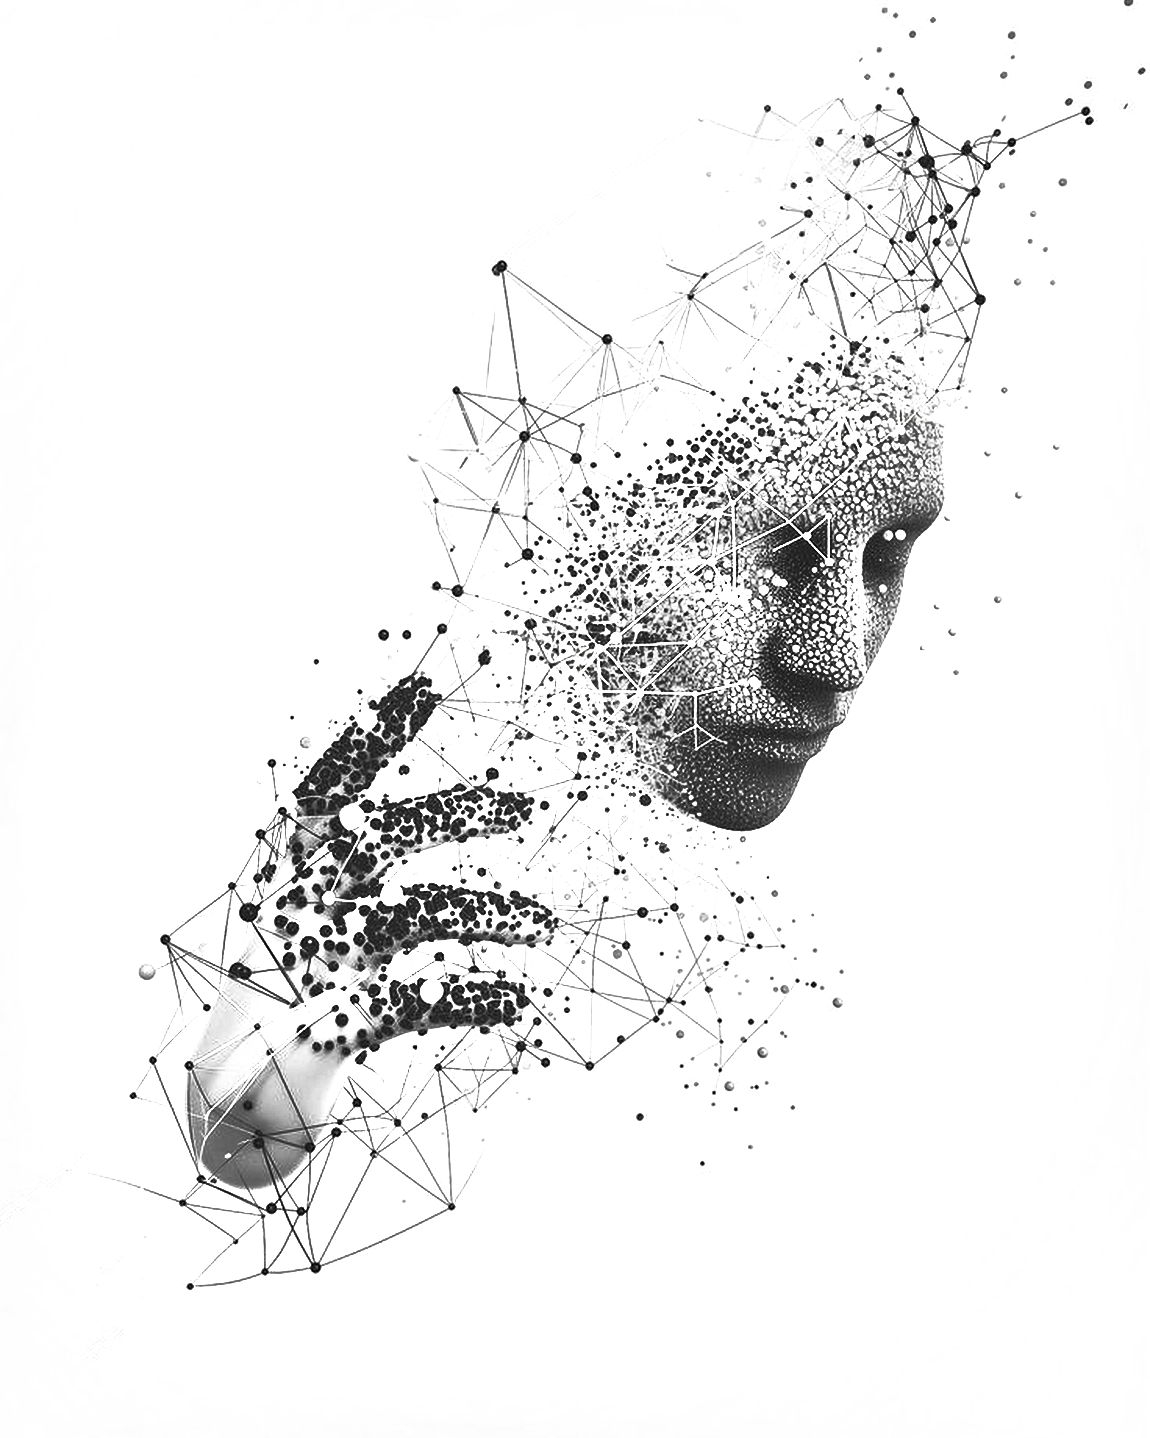
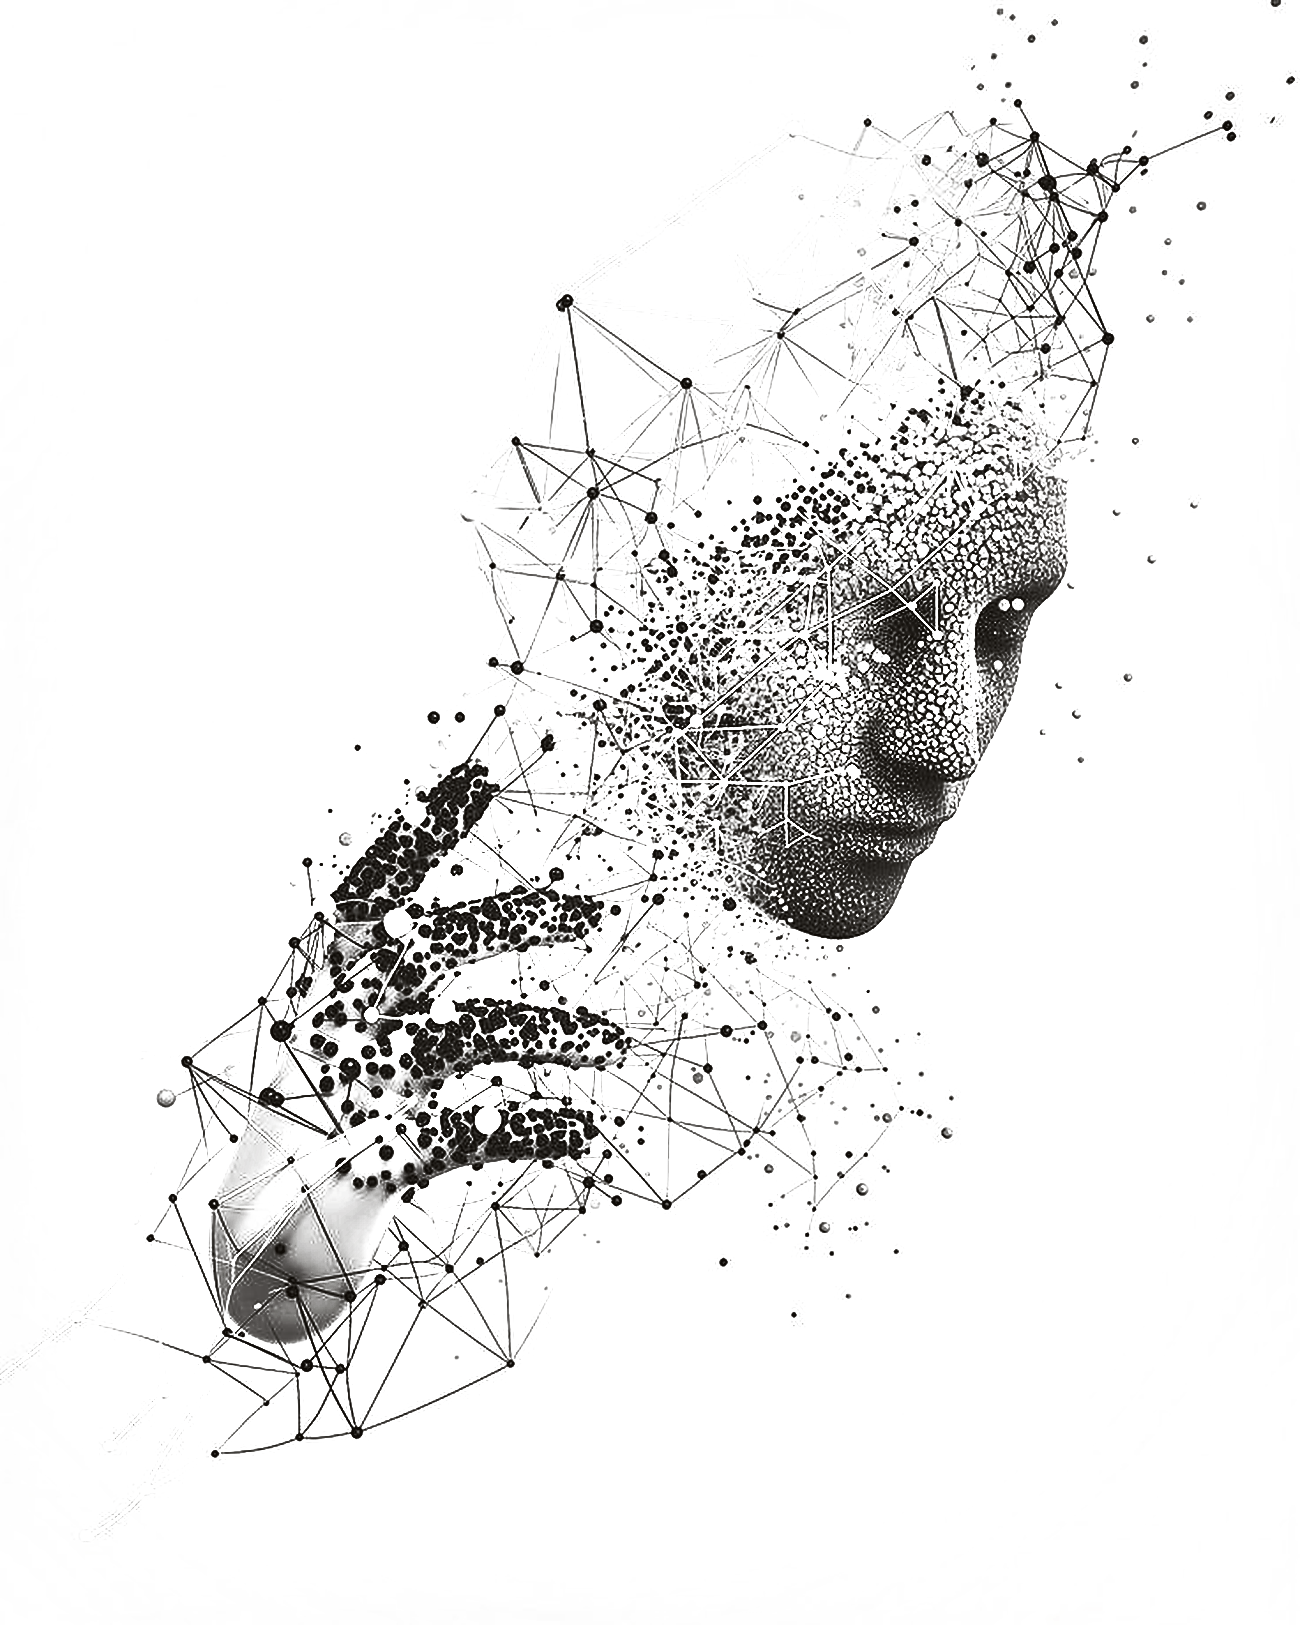
preview: photo + ai-node hero, levitation, premium card meta

diff --git a/preview.html b/preview.html
@@ -159,6 +159,15 @@ nav.scrolled{padding:13px 40px;background:rgba(244,241,234,0.82);backdrop-filter
 .hero-grid{position:relative;z-index:2;display:grid;grid-template-columns:1.05fr 0.95fr;gap:64px;align-items:center}
 .hero h1{font-family:var(--font-display);margin:18px 0 0;line-height:1.04}
 .hero h1 .h1-role{display:block;font-weight:600;font-size:clamp(15px,1.7vw,19px);color:var(--accent-strong);letter-spacing:0.01em;margin-bottom:12px;text-transform:none}
+/* премиум-аватар слева сверху (фото в кадре) */
+.hero-avatar{width:80px;height:80px;border-radius:50%;overflow:hidden;margin-bottom:24px;
+  border:1px solid var(--border-subtle);background:var(--surface);
+  box-shadow:0 1px 2px rgba(26,23,20,.05),0 14px 30px rgba(26,23,20,.08);
+  position:relative}
+.hero-avatar::after{content:"";position:absolute;right:-2px;bottom:-2px;width:18px;height:18px;border-radius:50%;
+  background:var(--accent);border:3px solid var(--bg-base);box-shadow:0 0 0 1px var(--accent-line)}
+.hero-avatar img{display:block;width:100%;height:100%;object-fit:cover}
+.hero .lead b{color:var(--accent-strong);font-weight:700}
 .hero h1 .h1-main{display:block;font-weight:800;font-size:clamp(40px,5.4vw,68px);letter-spacing:var(--tracking-display);color:var(--text-primary)}
 .hero .lead{max-width:560px;font-size:16.5px;margin-top:24px;color:var(--text-secondary)}
 .hero-cta{display:flex;align-items:center;gap:22px;margin-top:36px;flex-wrap:wrap}
@@ -173,11 +182,13 @@ nav.scrolled{padding:13px 40px;background:rgba(244,241,234,0.82);backdrop-filter
 /* portrait — premium floating panel */
 .photo-stage{perspective:1100px;display:flex;justify-content:center}
 /* AI-узлы — реалистичный элемент героя, чисто слит с off-white; край «появляется» */
-.ai-hero{position:relative;width:100%;max-width:480px;transform-style:preserve-3d;transition:transform .3s ease;will-change:transform}
+.ai-hero{position:relative;width:100%;max-width:520px;will-change:transform;
+  animation:aiFloat 6.5s ease-in-out infinite}
+@keyframes aiFloat{0%,100%{transform:translateY(-10px)}50%{transform:translateY(10px)}}
 .ai-hero img{display:block;width:100%;height:auto;
   animation:aiReveal 1.35s .4s cubic-bezier(.2,.7,.2,1) both}
 @keyframes aiReveal{0%{clip-path:inset(0 0 100% 0);opacity:0}100%{clip-path:inset(0 0 0 0);opacity:1}}
-@media (prefers-reduced-motion:reduce){.ai-hero img{animation:none}}
+@media (prefers-reduced-motion:reduce){.ai-hero,.ai-hero img{animation:none}}
 .photo-card{position:relative;width:100%;max-width:400px;border-radius:var(--radius-mock);
   transform-style:preserve-3d;transition:transform .25s ease;will-change:transform}
 .photo-card .frame{position:relative;z-index:1;border-radius:var(--radius-mock);overflow:hidden;
@@ -239,9 +250,11 @@ nav.scrolled{padding:13px 40px;background:rgba(244,241,234,0.82);backdrop-filter
 
 /* ============ FEATURE GRID ============ */
 .grid-3{display:grid;grid-template-columns:repeat(3,1fr);gap:20px;max-width:var(--maxw-mid);margin:0 auto}
-.card{padding:32px}
+.card{padding:30px 28px 26px;display:flex;flex-direction:column;min-height:230px}
 .card h3{font-family:var(--font-display);font-size:18px;font-weight:700;letter-spacing:-0.01em;margin-bottom:10px;color:var(--text-primary)}
-.card p{font-size:14px;color:var(--text-muted);line-height:1.6}
+.card p{font-size:14px;color:var(--text-muted);line-height:1.6;flex:1}
+.card .card-meta{display:flex;align-items:center;justify-content:space-between;gap:12px;margin-top:18px;padding-top:14px;border-top:1px solid var(--border-subtle);font-size:11.5px;font-weight:800;letter-spacing:0.1em;text-transform:uppercase;color:var(--text-muted)}
+.card .card-meta .mk{color:var(--accent-strong)}
 .icon-tile{width:52px;height:52px;border-radius:15px;display:grid;place-items:center;margin-bottom:22px;
   background:linear-gradient(150deg,#fff,var(--surface-2));border:1px solid var(--border-subtle);
   box-shadow:var(--shadow-sm),inset 0 1px #fff;transition:transform .28s,background .28s,border-color .28s,box-shadow .28s}
@@ -403,9 +416,10 @@ html.gsap #strengths .card{flex:0 0 clamp(300px,26vw,360px)}
   <div class="wrap">
     <div class="hero-grid">
       <div class="hero-text">
+        <div class="hero-avatar"><img src="photo.png" alt="Максим Лисевский" /></div>
         <span class="eyebrow">Онлайн-образование · Маркетплейсы WB / OZON</span>
         <h1><span class="h1-role">Руководитель отдела продаж</span><span class="h1-main">Senior Manager</span></h1>
-        <p class="lead">Sales и операционный руководитель в онлайн-образовании и на маркетплейсах WB и OZON. Когда РОП уходит — беру отдел на себя: план, выручка и команда остаются на месте. Параллельно строю собственную AI-инфраструктуру и завожу её прямо в продажи.</p>
+        <p class="lead">Когда РОП уходит — <b>беру отдел на себя</b>. Параллельно строю собственную AI-инфраструктуру и завожу её прямо в продажи.</p>
         <div class="hero-cta">
           <a class="btn btn-primary magnetic" href="mailto:[email redacted]">
             <svg viewBox="0 0 24 24" fill="none" stroke="currentColor" stroke-width="2.2" stroke-linecap="round" stroke-linejoin="round"><rect x="2" y="4" width="20" height="16" rx="2"/><path d="m22 7-8.97 5.7a1.94 1.94 0 0 1-2.06 0L2 7"/></svg>
@@ -501,31 +515,37 @@ html.gsap #strengths .card{flex:0 0 clamp(300px,26vw,360px)}
         <div class="icon-tile"><svg viewBox="0 0 24 24"><circle cx="12" cy="12" r="10"/><circle cx="12" cy="12" r="6"/><circle cx="12" cy="12" r="2"/></svg></div>
         <h3>Закрытие в одно касание</h3>
         <p>Клиент доходит до оплаты за первый контакт, без растянутого дожима. Основная отличительная черта.</p>
+        <div class="card-meta"><span>Sales</span><span class="mk">01</span></div>
       </div>
       <div class="card panel">
         <div class="icon-tile"><svg viewBox="0 0 24 24"><path d="M13 2 3 14h9l-1 8 10-12h-9l1-8z"/></svg></div>
         <h3>Короткий цикл сделки</h3>
         <p>Работаю без входящих заявок — на холодном и тёплом трафике, с быстрым выходом на оплату.</p>
+        <div class="card-meta"><span>Pipeline</span><span class="mk">02</span></div>
       </div>
       <div class="card panel">
         <div class="icon-tile"><svg viewBox="0 0 24 24"><path d="m22 8-6 4 6 4V8z"/><rect x="2" y="6" width="14" height="12" rx="2"/></svg></div>
         <h3>Продажи в Zoom</h3>
         <p>Большой опыт продающих и презентационных встреч: выявление потребности и доведение до решения онлайн.</p>
+        <div class="card-meta"><span>Online</span><span class="mk">03</span></div>
       </div>
       <div class="card panel">
         <div class="icon-tile"><svg viewBox="0 0 24 24"><path d="M16 21v-2a4 4 0 0 0-4-4H6a4 4 0 0 0-4 4v2"/><circle cx="9" cy="7" r="4"/><path d="M22 21v-2a4 4 0 0 0-3-3.87"/><path d="M16 3.13a4 4 0 0 1 0 7.75"/></svg></div>
         <h3>Замещение РОПа · тим-лид</h3>
         <p>На постоянной основе беру управление: удержание плана и выручки, целевые действия команды, адаптация менеджеров.</p>
+        <div class="card-meta"><span>Lead</span><span class="mk">04</span></div>
       </div>
       <div class="card panel">
         <div class="icon-tile"><svg viewBox="0 0 24 24"><path d="M3 3v16a2 2 0 0 0 2 2h16"/><path d="M7 16l4-5 4 3 5-7"/></svg></div>
         <h3>Аналитика воронки и amoCRM</h3>
         <p>Веду отдел по цифрам: вижу, где теряются деньги и где точки роста, и перевожу это в решения.</p>
+        <div class="card-meta"><span>Analytics</span><span class="mk">05</span></div>
       </div>
       <div class="card panel">
         <div class="icon-tile"><svg viewBox="0 0 24 24"><rect x="3" y="3" width="18" height="18" rx="2"/><path d="M3 9h18M3 15h18M9 3v18M15 3v18"/></svg></div>
         <h3>Таблицы и отчётность через AI</h3>
         <p>Строю и настраиваю аналитические таблицы и логику расчётов с помощью AI — корректно под реальные процессы.</p>
+        <div class="card-meta"><span>AI Ops</span><span class="mk">06</span></div>
       </div>
     </div>
   </div>
@@ -736,7 +756,7 @@ const cio=new IntersectionObserver((es)=>{es.forEach(e=>{
 document.querySelectorAll('[data-count]').forEach(el=>cio.observe(el));
 
 /* ===== Portrait tilt ===== */
-const card=document.getElementById('photoCard');
+const card=null; /* tilt disabled for ai-hero, левитация в CSS */
 if(card&&!matchMedia('(prefers-reduced-motion:reduce)').matches&&matchMedia('(min-width:981px)').matches){
   const stage=card.parentElement;
   stage.addEventListener('pointermove',e=>{